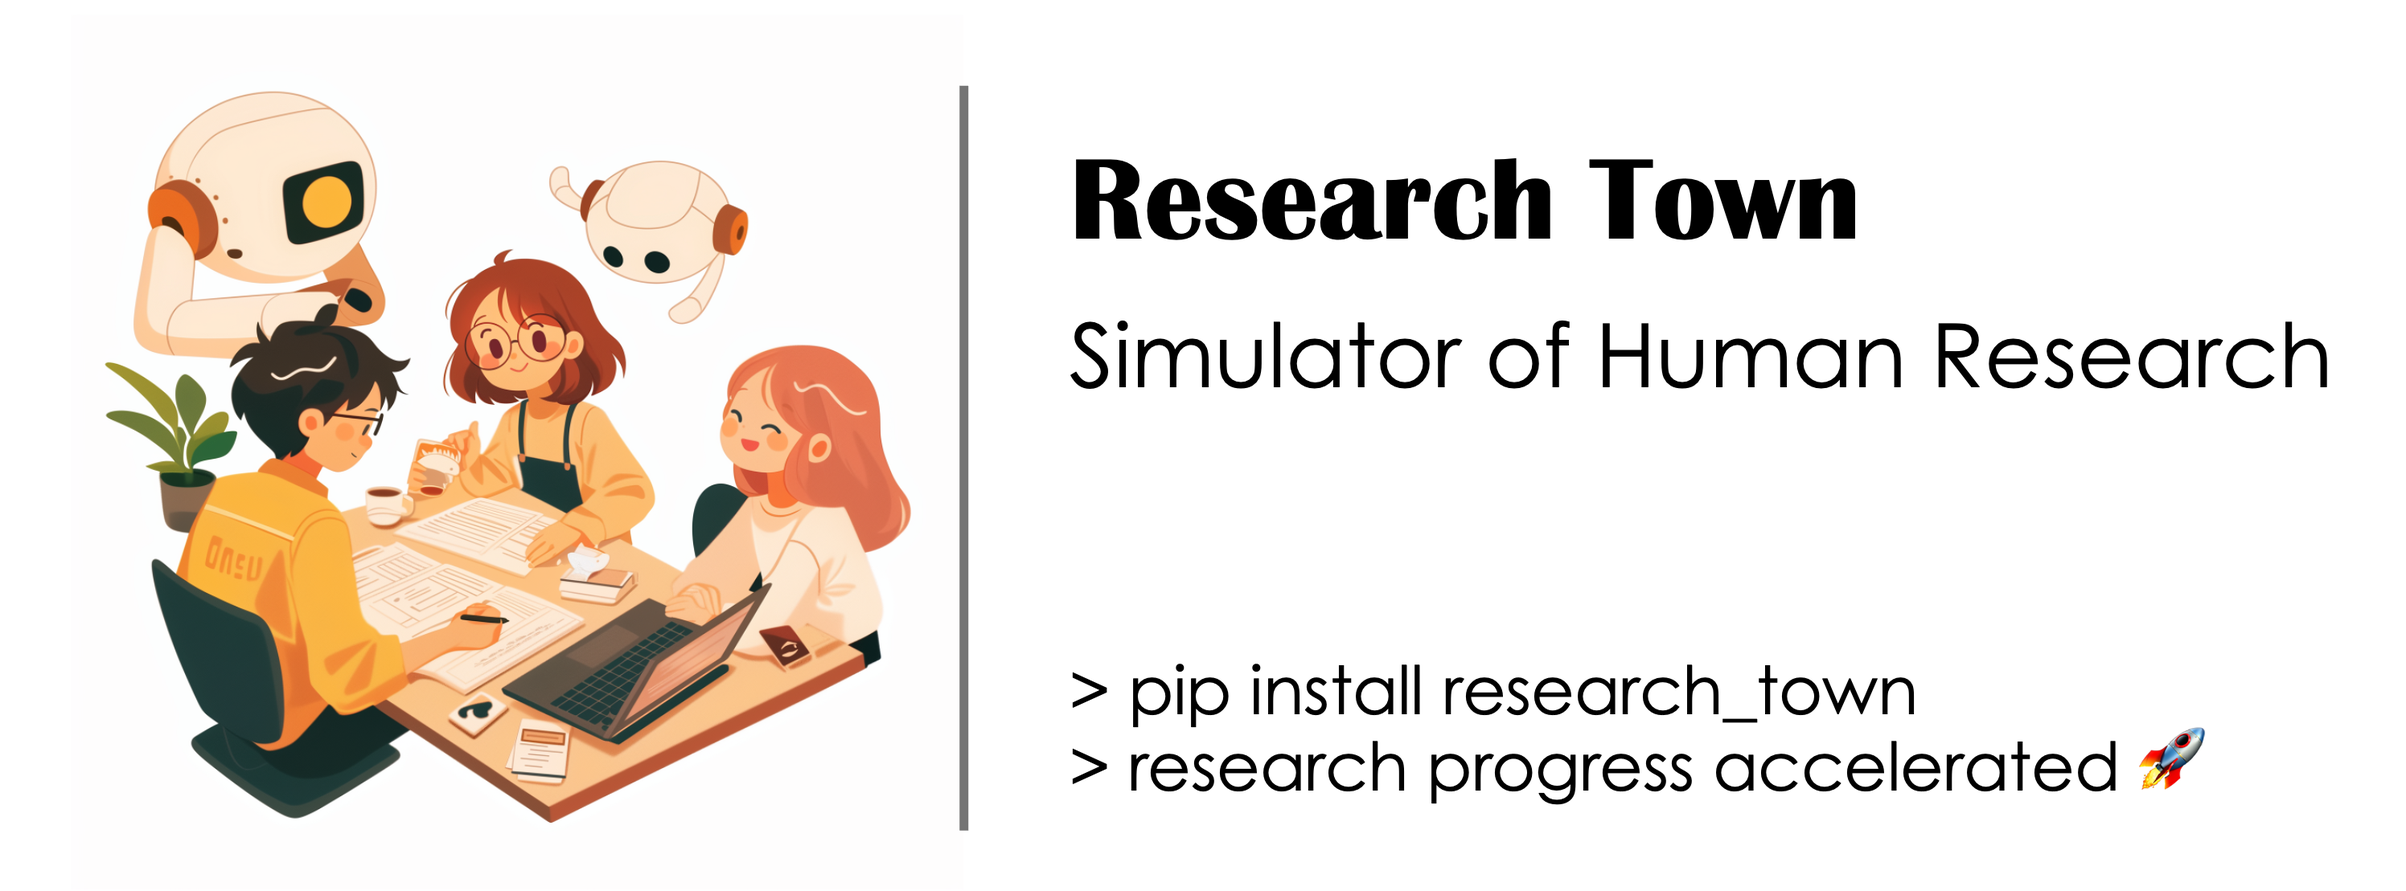
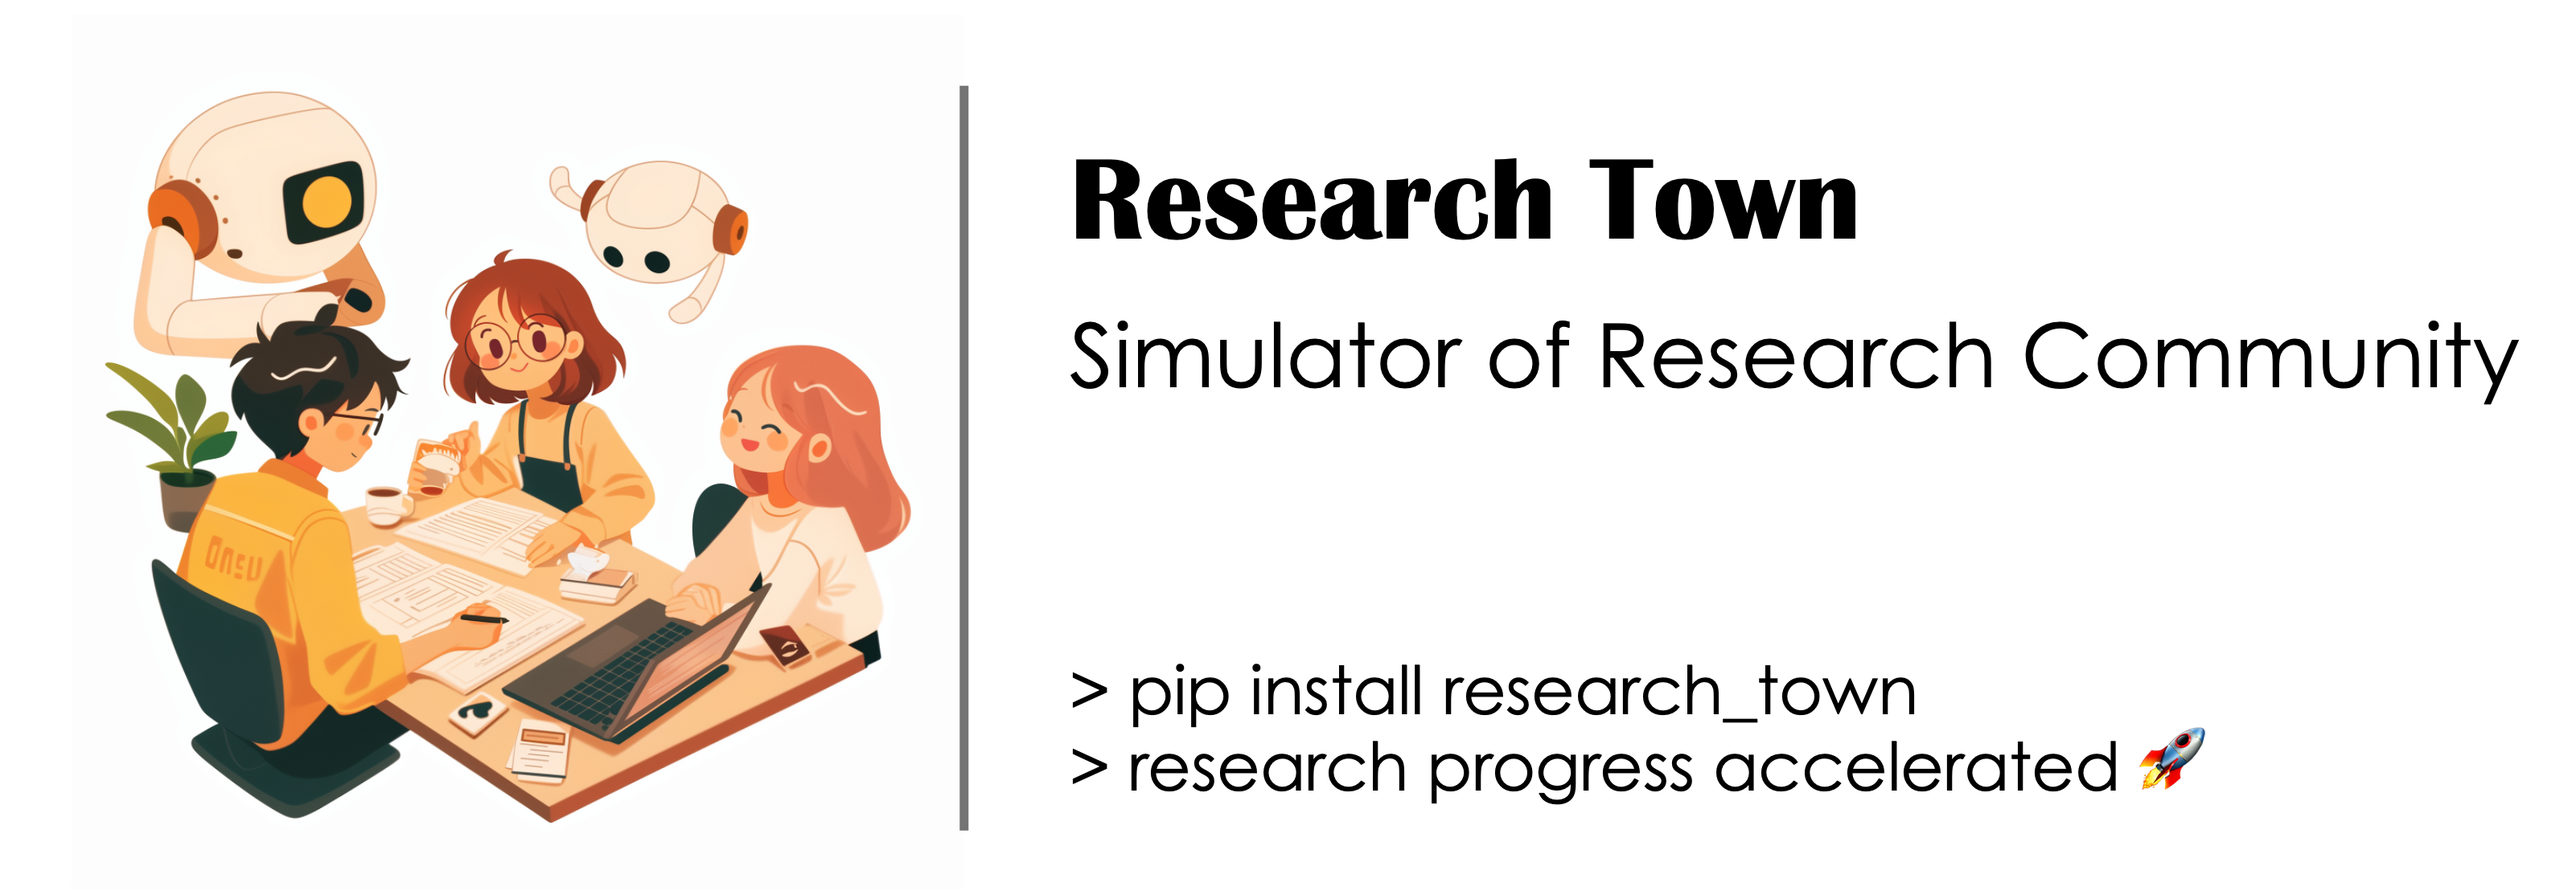
update readme

Changed region(s): [[0.0311, 0.092, 0.9947, 0.9197]]

diff --git a/README.md b/README.md
@@ -2,7 +2,7 @@
   <img src="assets/research_town.png" style="width: 100%;" alt="sotopia"></img>
 </div>
 
-<h1 align="center">Research Town: Simulator of Human Research</h1>
+<h1 align="center">Research Town: Simulator of Research Community</h1>
 
 <div align="center">
 
@@ -23,19 +23,12 @@
 
 ## Introduction
 
-**Research Town** is a multi-agent platform designed for language agent researchers to study automatic research. It includes three main components and allow flexible combination for different research workflow:
+**Research Town** is a multi-agent platform designed for studying community-level automatic research. To achieve community-based simulation, it defines:
 
-1. 🤖 *Agents*: LLM-driven research agents capable of skills such as reading papers, writing papers, discussing ideas, rebutting arguments, and writing reviews.
-2. 🚪 *Environments*: Multi-agent environments, similar to virtual study rooms, where research agents collaborate on tasks like idea discussion, rebuttal writing, or paper writing.
+1. 🤖 *Researcher*: LLM research agents capable of skills such as reading papers, writing papers, discussing ideas, rebutting arguments, and writing reviews.
+2. 🎩 *Environments*: Multi-agent environments, similar to virtual study rooms, where research agents collaborate on tasks like idea discussion, rebuttal writing, or paper writing.
 3. ⚙ *Engines*: Finite-state machines that manage agent involvement in environments and determine the next steps after task completion. For instance, engines guide agents coming out of idea discussion environment to paper writing environment and help select suitable agents to work together.
 
-## Key features
-
-Different from previous work, **research town** is a comprehensive, interactive, and realistic simulator for research community:
-
-1. ⭕ *Comprehensive*: It simulates the overall reserach lifecycle from literature review and idea generation, to review writing and meta review decision release.
-2. ⏯ *Interactive*: LLM generated research progress like generated idea, paper, and review can be checked and modified by human researchers.
-3. 👩🏻🔬 *Realistic*: Each research agent in the town is role-playing human researchers conditioned on their previous research experience.
 
 ## Get started
 
